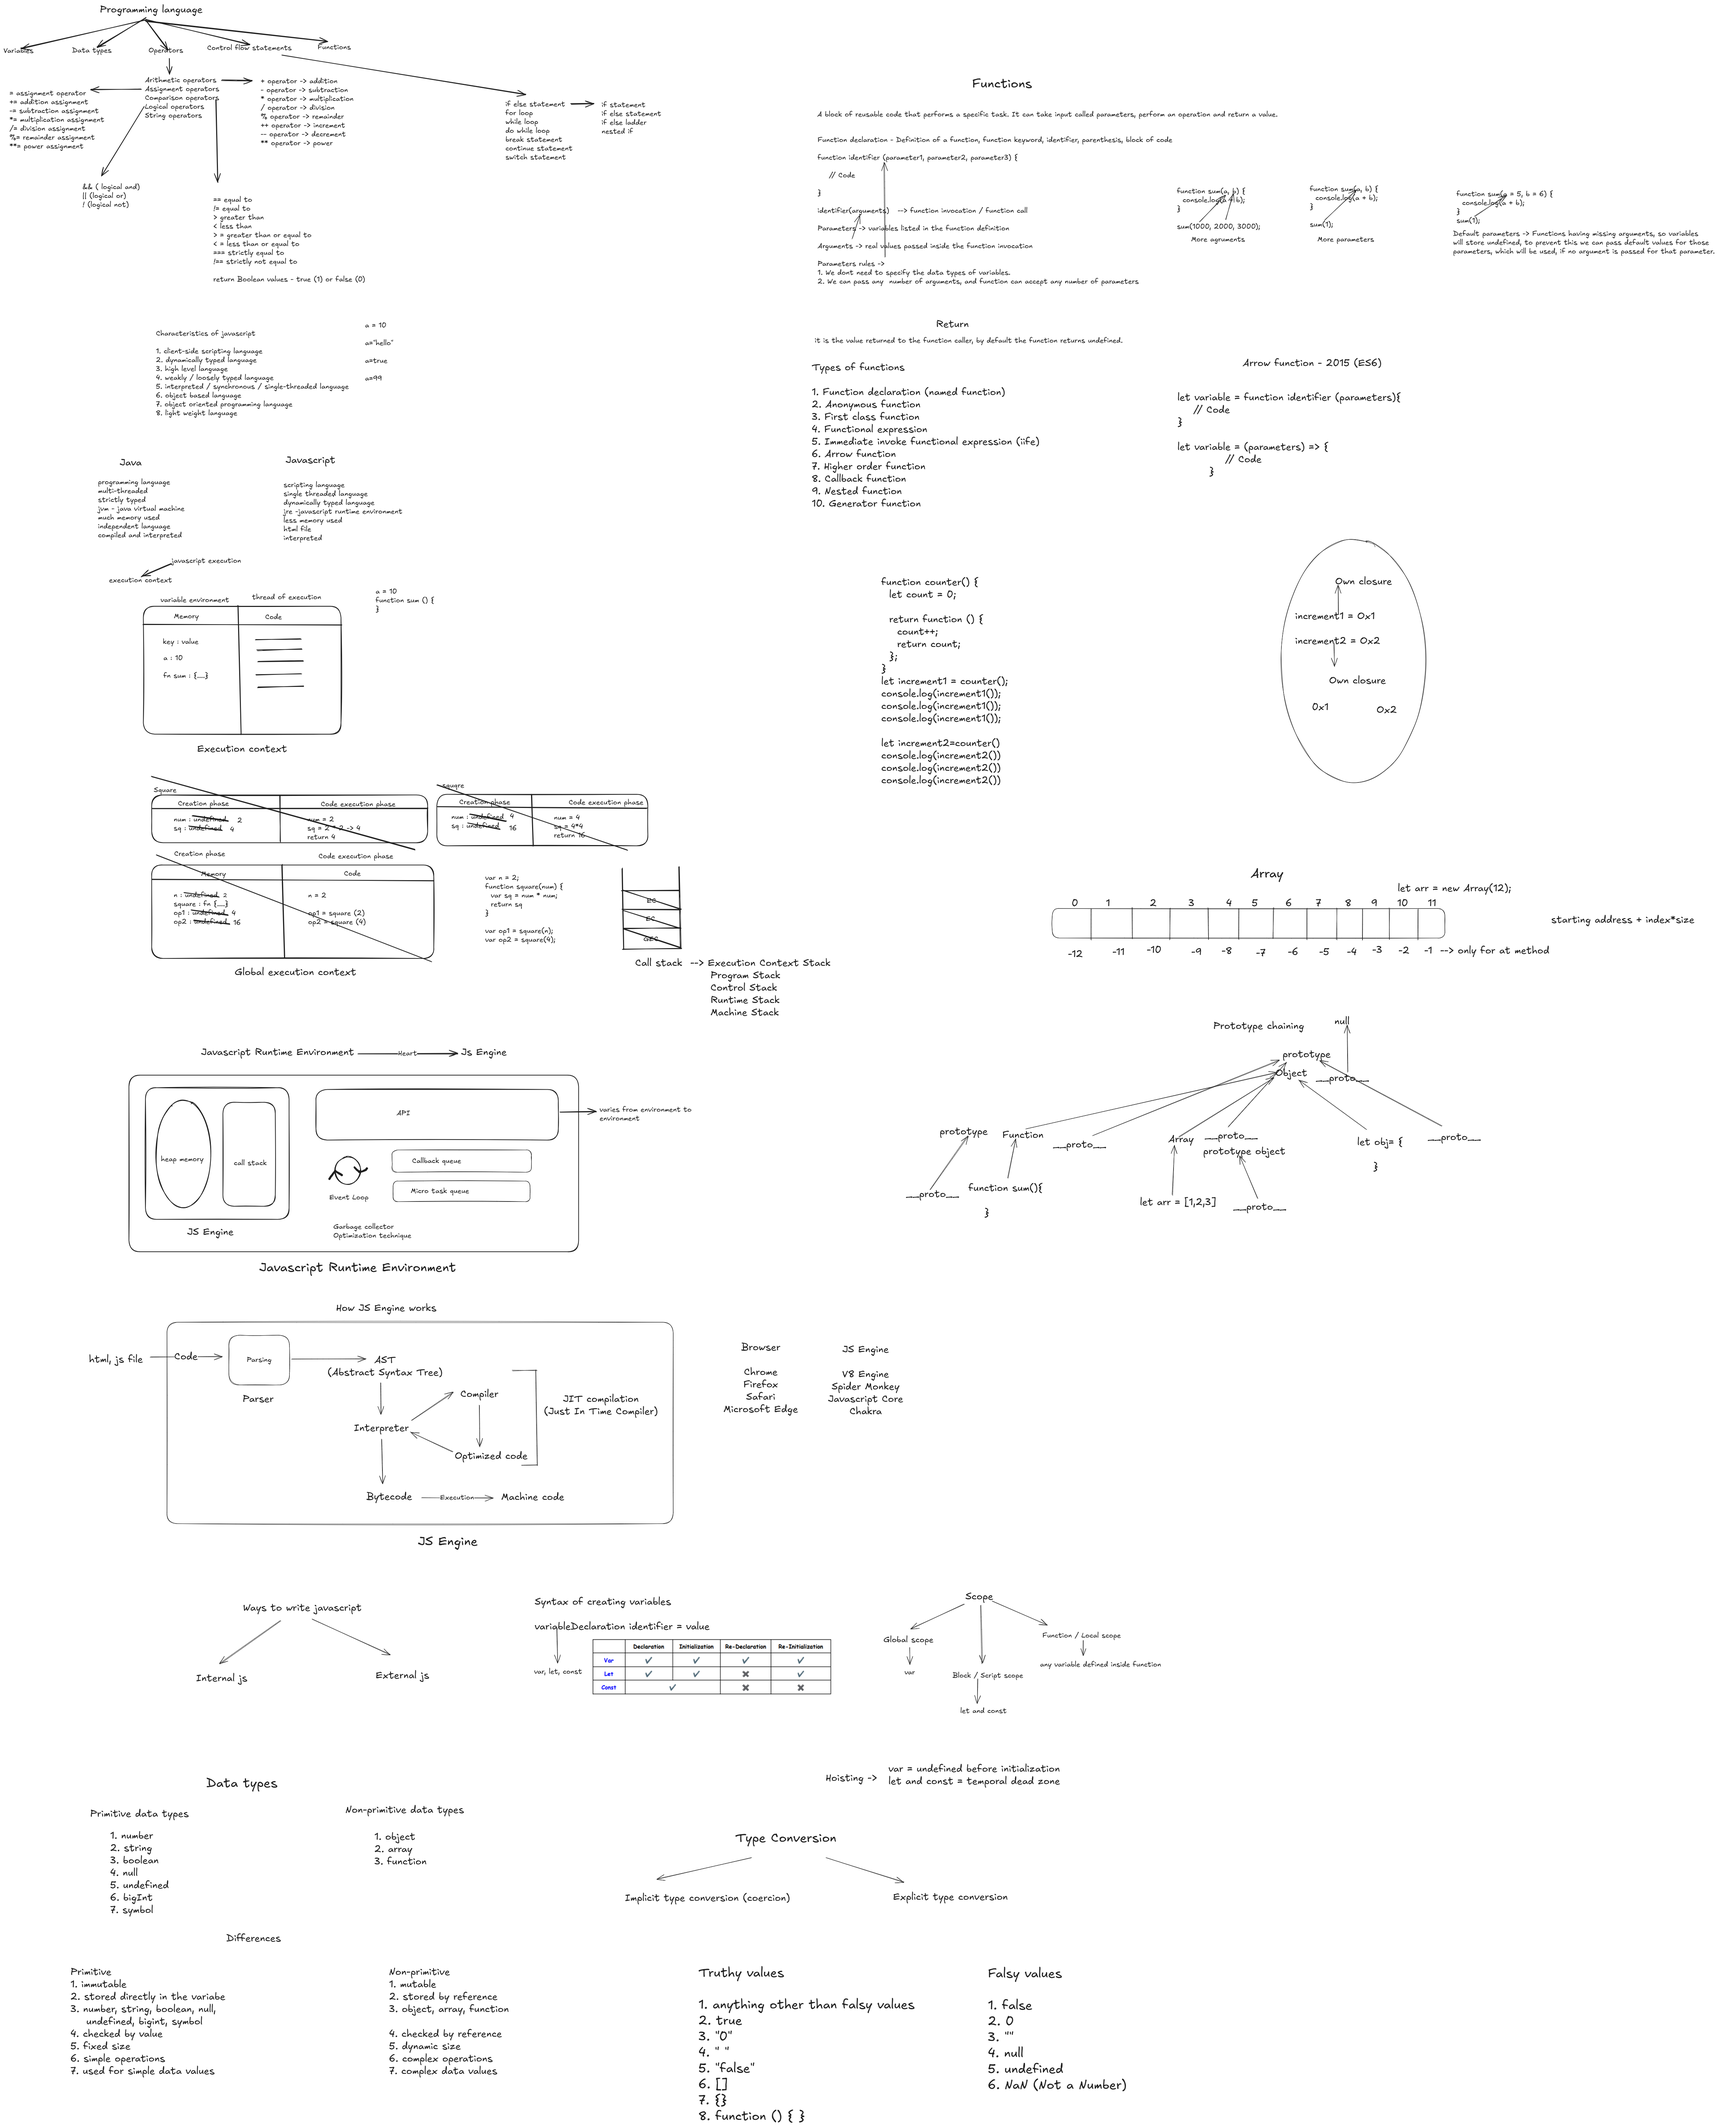
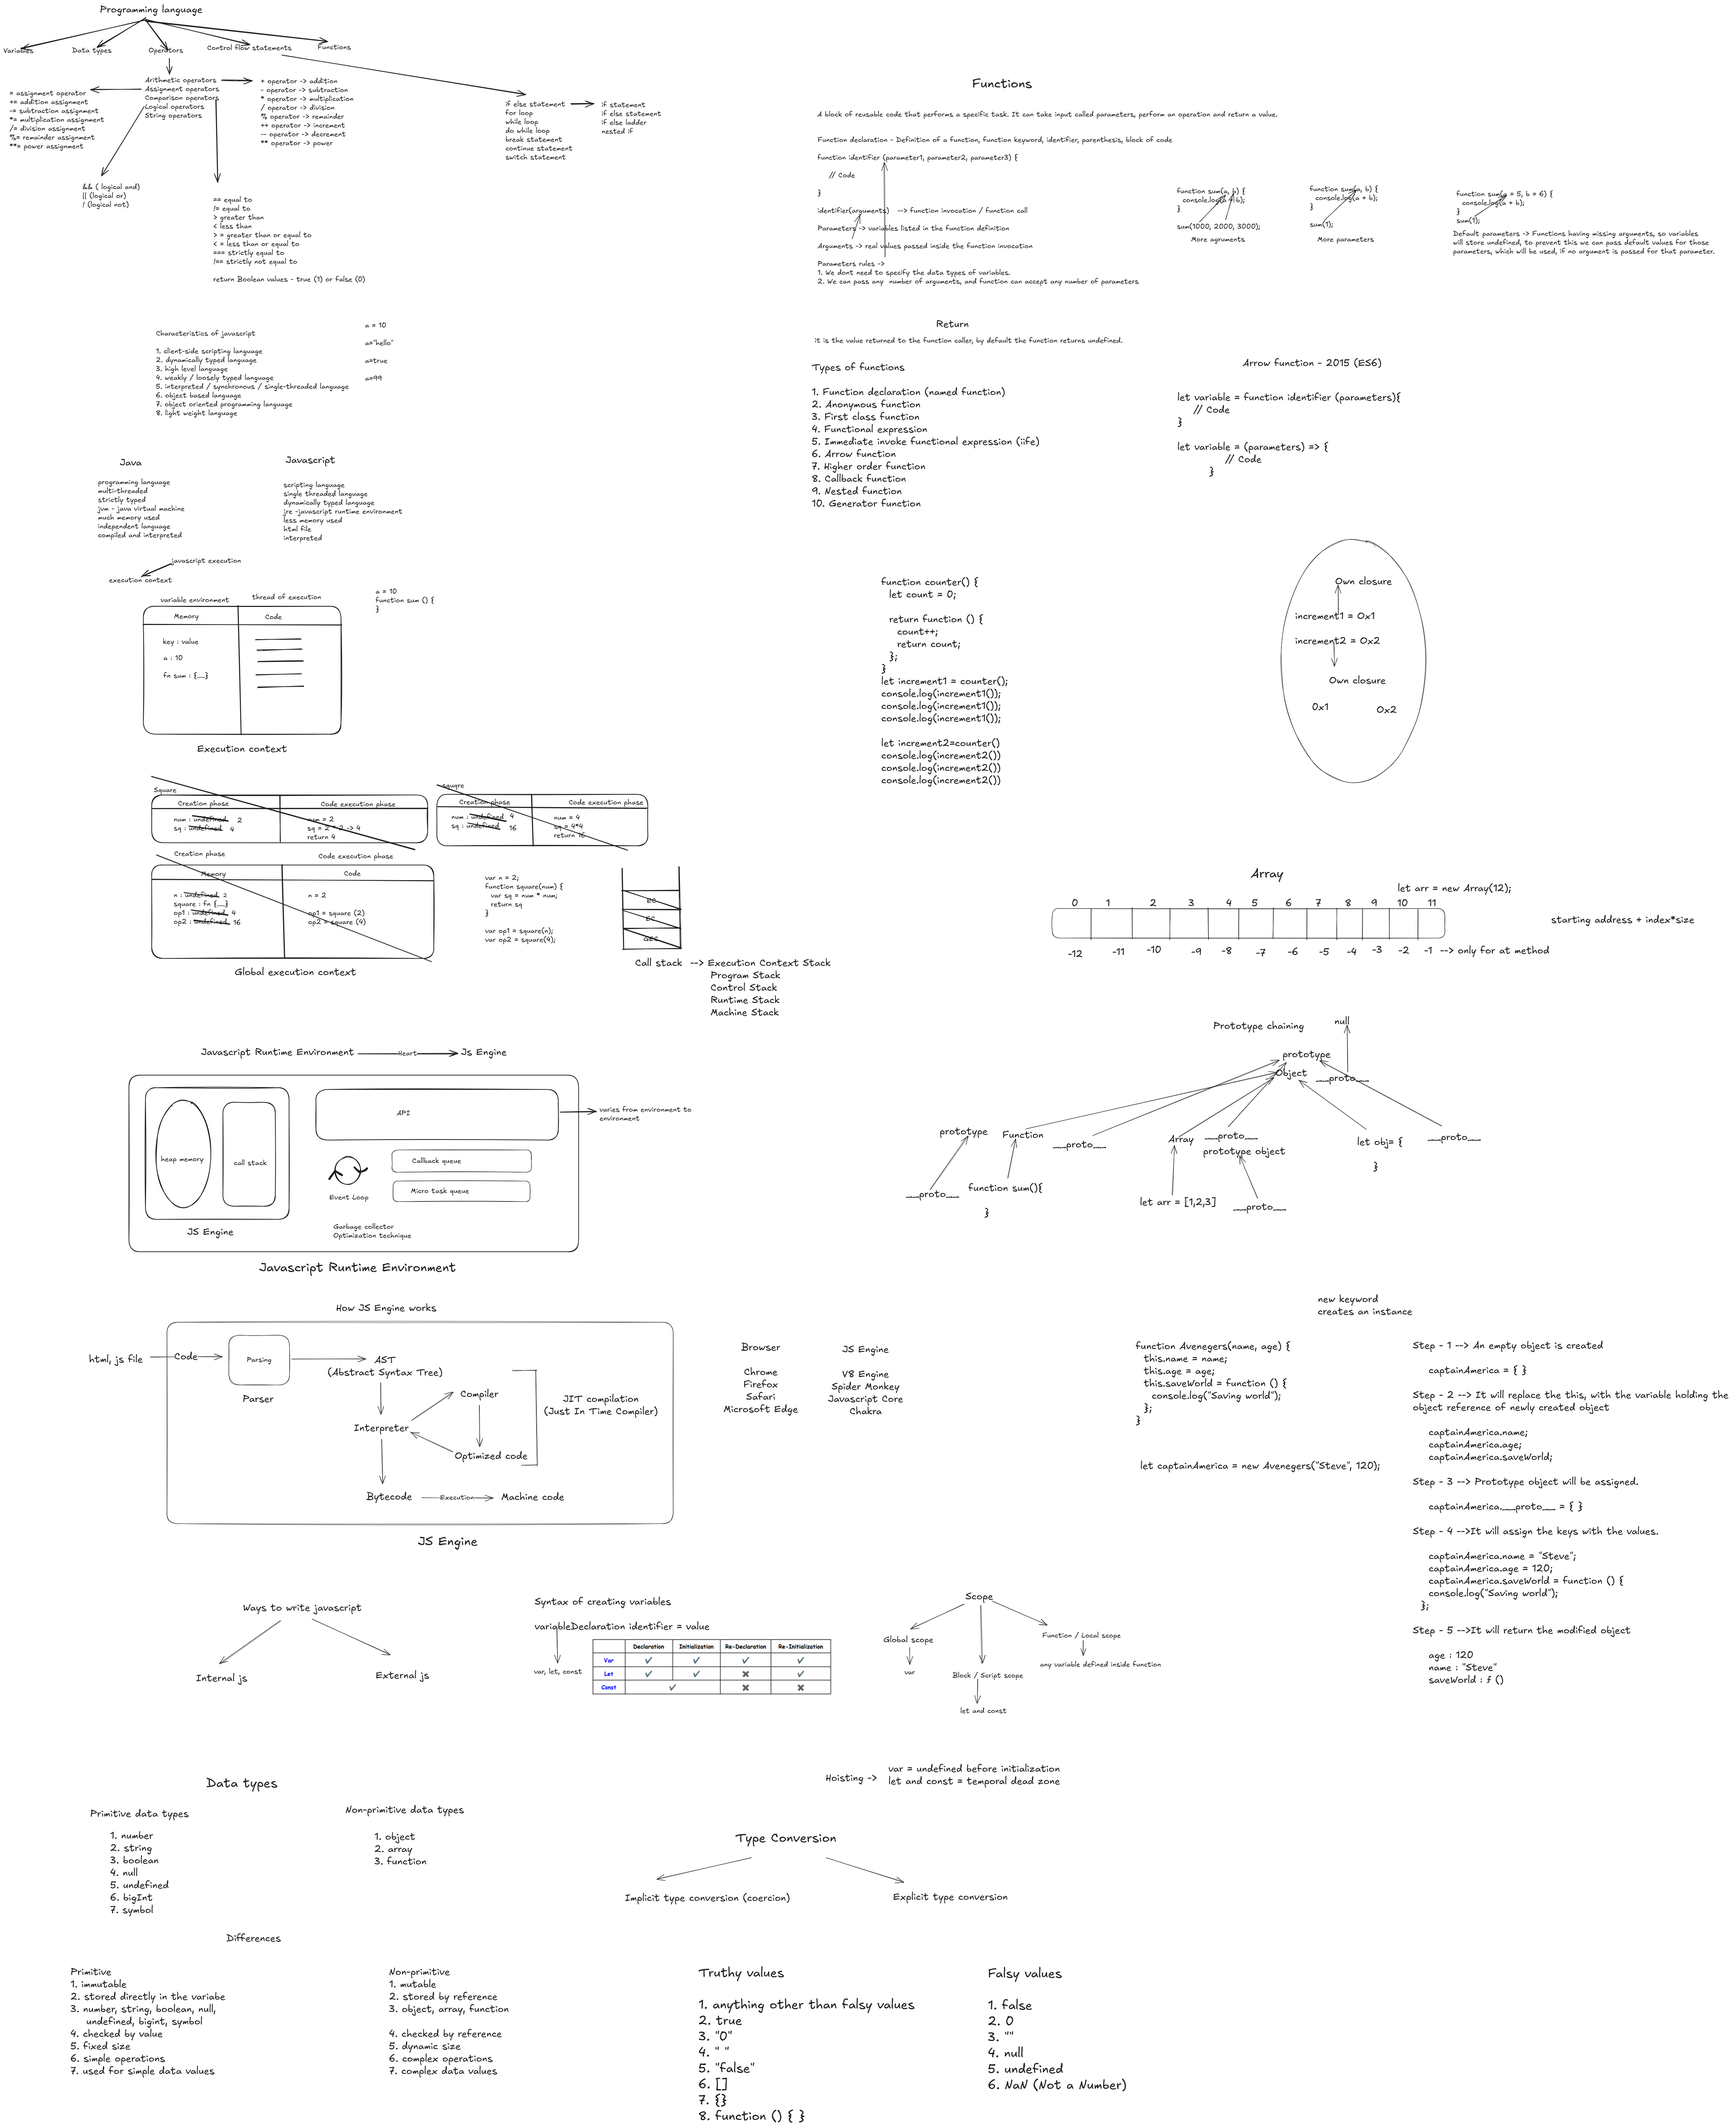
objects

diff --git a/objects.js b/objects.js
@@ -352,39 +352,90 @@
 
 //& Constructor function
 
-function Avenegers(name, age) {
-  this.name = name;
-  this.age = age;
-}
-// console.log(new Avenegers("Steve", 120));
-// console.log(new Avenegers("Tony", 60));
-// console.log(new Avenegers("Peter", 20));
+// function Avenegers(name, age) {
+//   this.name = name;
+//   this.age = age;
+// }
+// // console.log(new Avenegers("Steve", 120));
+// // console.log(new Avenegers("Tony", 60));
+// // console.log(new Avenegers("Peter", 20));
 
-let captainAmerica = new Avenegers("Steve", 120);
-console.log(captainAmerica);
-console.log(captainAmerica.name);
-// captainAmerica.saveWorld()
-let ironMan = new Avenegers("Tony", 60);
-console.log(ironMan);
-// ironMan.saveWorld()
-let spiderMan = new Avenegers("Peter", 20);
-console.log(spiderMan);
+// let captainAmerica = new Avenegers("Steve", 120);
+// console.log(captainAmerica);
+// console.log(captainAmerica.name);
+// // captainAmerica.saveWorld()
+// let ironMan = new Avenegers("Tony", 60);
+// console.log(ironMan);
+// // ironMan.saveWorld()
+// let spiderMan = new Avenegers("Peter", 20);
+// console.log(spiderMan);
 
-console.log(captainAmerica.__proto__);
+// console.log(captainAmerica.__proto__);
 
-console.log(Avenegers.prototype);
+// console.log(Avenegers.prototype);
 
-Avenegers.prototype.saveWorld = function () {
-  console.log("Saving world");
-};
-console.log(Avenegers.prototype);
-captainAmerica.saveWorld();
+// Avenegers.prototype.saveWorld = function () {
+//   console.log("Saving world");
+// };
+// console.log(Avenegers.prototype);
+// captainAmerica.saveWorld();
 
-let printDetails = function () {
-  console.log("Name " + this.name + " age " + this.age);
-};
-Avenegers.prototype.printDetails = printDetails;
+// let printDetails = function () {
+//   console.log("Name " + this.name + " age " + this.age);
+// };
+// Avenegers.prototype.printDetails = printDetails;
 
-captainAmerica.printDetails()
+// captainAmerica.printDetails()
 //? While creating object, from a constructor, we have to use new keyword
 //? this will point to the current object, but the value of this can be varied based upon where and how it is used
+
+//& Class
+//? Behind the scenes works like constructor function only, it is just syntactic sugar.
+//? Class is a blueprint, based on which you can create an instance of the class (object)
+
+// class Avenegers {
+//   constructor(name, age) {
+//     (this.name = name), (this.age = age);
+//   }
+//   saveWorld() {
+//     console.log("Saving world");
+//   }
+//   printDetails() {
+//     console.log("Name " + this.name + " age " + this.age);
+//   }
+//   team = "Marvels";
+
+//   static greet() {
+//     console.log("Welcome to avengers");
+//   }
+// }
+// console.log(Avenegers.prototype);
+
+// let captainAmerica = new Avenegers("Steve", 120);
+// console.log(captainAmerica);
+// captainAmerica.saveWorld();
+// captainAmerica.printDetails();
+
+// Avenegers.greet();
+
+//TODO Inheritance
+
+class Employee {
+  constructor(name, age) {
+    this.name = name;
+    this.age = age;
+  }
+}
+
+class Manager extends Employee {
+  constructor(name, age, sal) {
+    super(name, age);
+    this.sal = sal;
+  }
+}
+
+let emp = new Employee("xyz", 21);
+console.log(emp);
+
+let mgr = new Manager("abc", 28, 120000);
+console.log(mgr);
